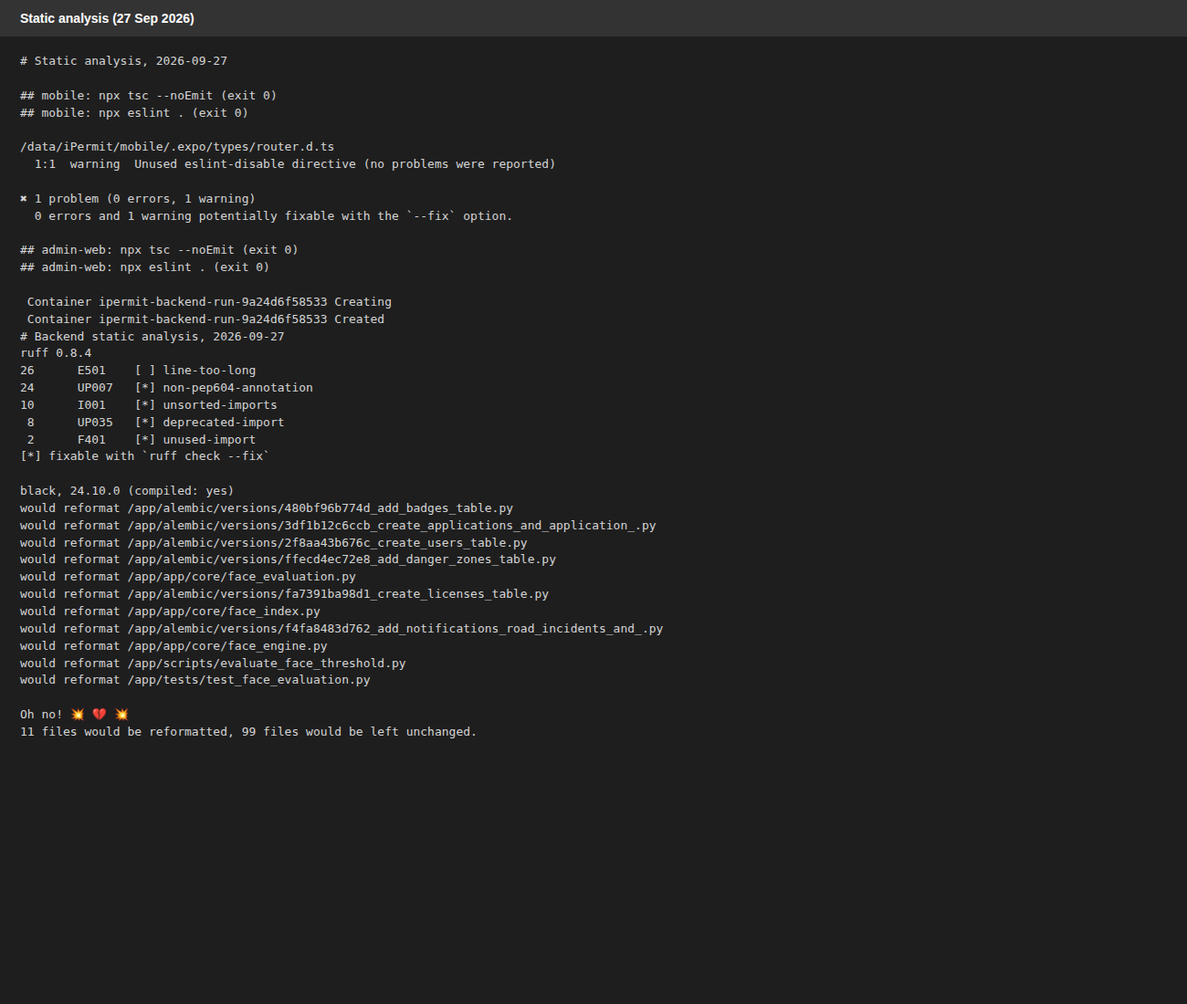
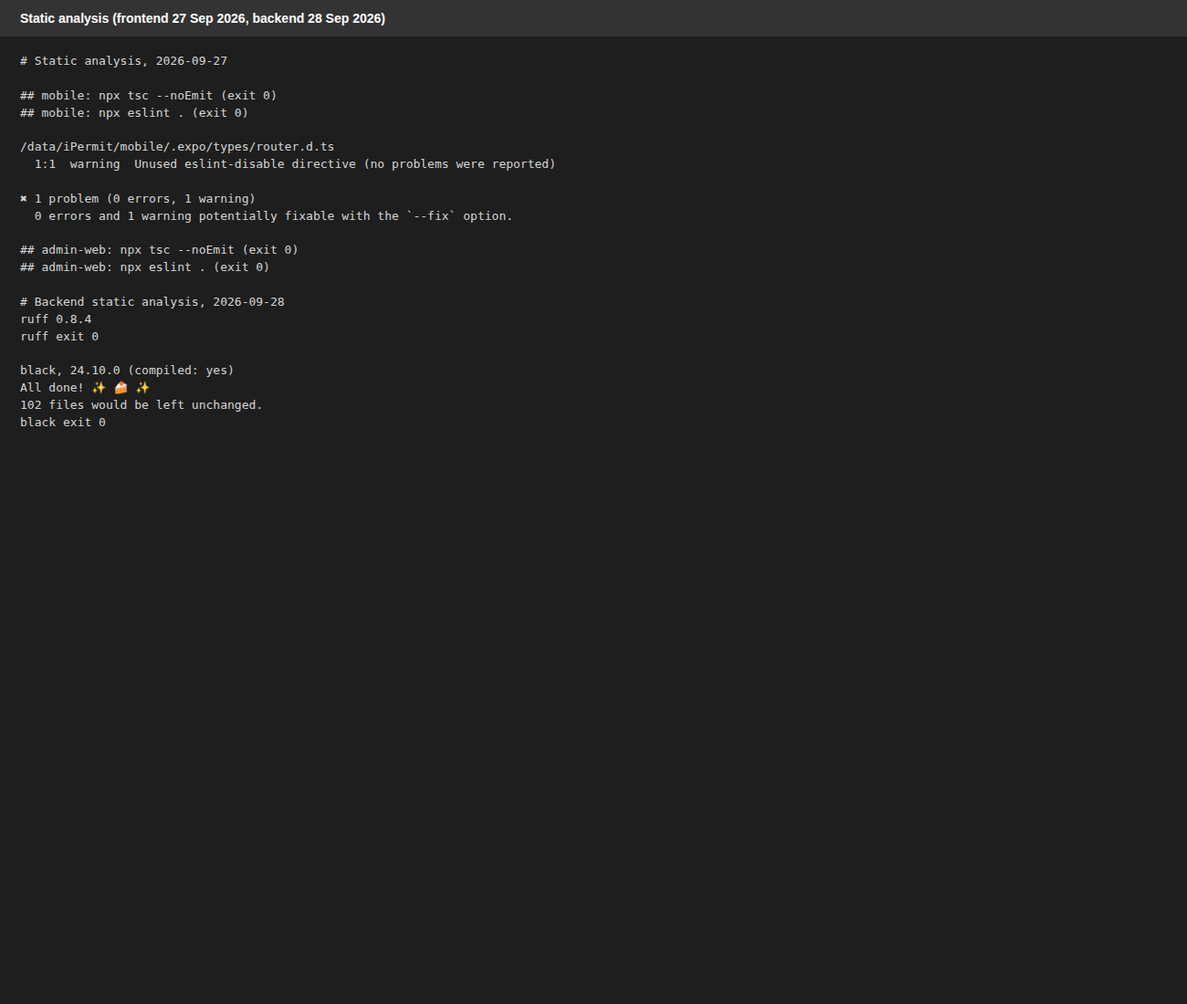
Fix backend lint findings and correct docs that disagreed with the code
Exclude autogenerated Alembic migrations from ruff and black (applied
migrations are never hand-edited) and fix the 10 remaining findings in
app code, scripts and tests. Ruff and black now pass; 165/165 tests pass.

Correct design.md, methodology.md, setup.md and mobile/README.md on the
HTTP client (fetch), route list, DB driver (psycopg2), map tiles,
liveness (not implemented), admin rendering, the exact FAISS index and
the in-memory SQLite test database. Update thesis Chapters 5-7, the test
evidence and tasks.md 9.4 to match.

diff --git a/backend/scripts/evaluate_face_threshold.py b/backend/scripts/evaluate_face_threshold.py
@@ -35,10 +35,14 @@ def main() -> None:
     args = parser.parse_args()
 
     image_paths = sorted(
-        p for p in args.dataset_dir.iterdir() if p.suffix.lower() in {".jpg", ".jpeg", ".png"}
+        p
+        for p in args.dataset_dir.iterdir()
+        if p.suffix.lower() in {".jpg", ".jpeg", ".png"}
     )
     if len(image_paths) < 2:
-        raise SystemExit(f"Need at least 2 images in {args.dataset_dir}, found {len(image_paths)}")
+        raise SystemExit(
+            f"Need at least 2 images in {args.dataset_dir}, found {len(image_paths)}"
+        )
 
     embeddings = {}
     for path in image_paths:
@@ -62,7 +66,9 @@ def main() -> None:
         f"{len(impostor_scores)} impostor pairs"
     )
 
-    current = compute_far_frr(genuine_scores, impostor_scores, settings.face_match_threshold)
+    current = compute_far_frr(
+        genuine_scores, impostor_scores, settings.face_match_threshold
+    )
     print(f"\nAt current threshold ({settings.face_match_threshold}):")
     print(f"  FAR: {current.far:.2%}   FRR: {current.frr:.2%}")
 

diff --git a/backend/app/core/face_index.py b/backend/app/core/face_index.py
@@ -75,9 +75,7 @@ def search(embedding: np.ndarray, k: int = 1) -> list[tuple[float, int]]:
         index = _get_index()
         if index.ntotal == 0:
             return []
-        similarities, ids = index.search(
-            embedding.astype(np.float32).reshape(1, -1), k
-        )
+        similarities, ids = index.search(embedding.astype(np.float32).reshape(1, -1), k)
     return [
         (float(sim), int(rowid))
         for sim, rowid in zip(similarities[0], ids[0], strict=True)

diff --git a/backend/app/core/face_engine.py b/backend/app/core/face_engine.py
@@ -112,9 +112,7 @@ def _get_face_app():
                 _ensure_models_downloaded()
                 from insightface.app import FaceAnalysis
 
-                app = FaceAnalysis(
-                    name="buffalo_l", providers=["CPUExecutionProvider"]
-                )
+                app = FaceAnalysis(name="buffalo_l", providers=["CPUExecutionProvider"])
                 app.prepare(ctx_id=0, det_size=(640, 640))
                 _face_app = app
     return _face_app

diff --git a/backend/app/core/face_preprocessing.py b/backend/app/core/face_preprocessing.py
@@ -82,7 +82,8 @@ def assess_photo_quality(
 
     if sharpness < settings.face_min_sharpness:
         reasons.append(
-            f"image too blurry (sharpness {sharpness:.1f} < {settings.face_min_sharpness})"
+            f"image too blurry (sharpness {sharpness:.1f} "
+            f"< {settings.face_min_sharpness})"
         )
     if not (settings.face_min_brightness <= brightness <= settings.face_max_brightness):
         reasons.append(

diff --git a/backend/app/core/face_evaluation.py b/backend/app/core/face_evaluation.py
@@ -34,7 +34,8 @@ def sweep_thresholds(
     genuine_scores: list[float], impostor_scores: list[float], steps: int = 100
 ) -> list[ThresholdMetrics]:
     return [
-        compute_far_frr(genuine_scores, impostor_scores, i / steps) for i in range(steps + 1)
+        compute_far_frr(genuine_scores, impostor_scores, i / steps)
+        for i in range(steps + 1)
     ]
 
 

diff --git a/backend/tests/test_face_evaluation.py b/backend/tests/test_face_evaluation.py
@@ -1,6 +1,10 @@
 import pytest
 
-from app.core.face_evaluation import compute_far_frr, find_equal_error_rate, sweep_thresholds
+from app.core.face_evaluation import (
+    compute_far_frr,
+    find_equal_error_rate,
+    sweep_thresholds,
+)
 
 
 def test_compute_far_frr_perfect_separation():

diff --git a/backend/tests/test_danger_zones.py b/backend/tests/test_danger_zones.py
@@ -1,8 +1,3 @@
-import uuid
-
-from app.models.danger_zone import DangerZone
-
-
 def _register_and_login(client, email="driver@example.com", nic="991234567V"):
     client.post(
         "/auth/register",

diff --git a/docs/methodology.md b/docs/methodology.md
@@ -20,8 +20,8 @@ Where a requirement had a genuine design ambiguity or a trade-off that materiall
 |---|---|---|
 | Backend API | FastAPI (Python), SQLAlchemy, Alembic, PostgreSQL | Async-capable, typed request/response models, mature migration tooling for a relational schema with foreign-key integrity constraints (e.g. `ON DELETE RESTRICT` on violation/fine/appeal records) |
 | Driver & police mobile app | Expo, React Native, TypeScript | Single codebase across iOS/Android/web preview; Expo's managed workflow removed the need for native build tooling during development |
-| Admin web dashboard | Next.js, React, TypeScript | Server-rendered admin UI, shared TypeScript conventions with the mobile app |
-| Facial recognition | RetinaFace + ArcFace (ONNX Runtime), FAISS, SQLite | RetinaFace/ArcFace via the `buffalo_l` model pack gave a pretrained detection-plus-embedding pipeline without requiring a from-scratch training dataset; FAISS gives sub-linear nearest-neighbour search over embeddings; SQLite isolates biometric templates from the primary PostgreSQL store, both for the non-functional privacy requirement and to avoid running two ORMs against one schema for a single table |
+| Admin web dashboard | Next.js, React, TypeScript | App Router project structure with client-rendered pages (every page calls the API from the browser), shared TypeScript conventions with the mobile app |
+| Facial recognition | RetinaFace + ArcFace (ONNX Runtime), FAISS, SQLite | RetinaFace/ArcFace via the `buffalo_l` model pack gave a pretrained detection-plus-embedding pipeline without requiring a from-scratch training dataset; FAISS gives fast exact nearest-neighbour search over embeddings (`IndexFlatIP`, a linear scan that is ample at prototype scale and can be swapped for an approximate index later); SQLite isolates biometric templates from the primary PostgreSQL store, both for the non-functional privacy requirement and to avoid running two ORMs against one schema for a single table |
 | Violation detection (planned) | YOLOv8n-seg, YOLOv8n, OpenCV | Selected for the design but not implemented in this build — see §7 |
 
 Every third-party dependency introduced during implementation was justified against an existing requirement rather than added speculatively; no dependency was added purely to make a future, unspecified feature easier to build later.
@@ -80,7 +80,7 @@ One acceptance criterion, REQ-13 AC5 ("notify nearby drivers of new high-severit
 
 ## 5. Testing Strategy
 
-Three layers of testing were applied across every module: unit tests for pure business-rule functions with no I/O (point deduction, badge-tier thresholds, appeal-reversal logic, face-recognition quality assessment, and the FAR/FRR/EER evaluation formulas), integration tests exercising each phase's endpoints against a real test database, and a final round of live verification against the actual running Docker stack for every phase, since a passing automated suite was treated throughout this project as necessary evidence, not sufficient evidence, of a working feature. Where a defect was found only through live verification and not through the existing automated tests, a new regression test was added alongside the fix rather than relying on manual verification alone to catch a recurrence.
+Three layers of testing were applied across every module: unit tests for pure business-rule functions with no I/O (point deduction, badge-tier thresholds, appeal-reversal logic, face-recognition quality assessment, and the FAR/FRR/EER evaluation formulas), integration tests exercising each phase's endpoints through FastAPI's test client against an in-memory SQLite test database (created fresh for each test, not the PostgreSQL used in the running system), and a final round of live verification against the actual running Docker stack for every phase, since a passing automated suite was treated throughout this project as necessary evidence, not sufficient evidence, of a working feature. Where a defect was found only through live verification and not through the existing automated tests, a new regression test was added alongside the fix rather than relying on manual verification alone to catch a recurrence.
 
 For the two AI subsystems, an additional evaluation layer was added specifically to avoid repeating a known methodological error from the source research: a prior attempt at face recognition reported 100% training accuracy but only 60% test accuracy on a six-person, sixty-eight-image dataset, a textbook overfitting result. A FAR/FRR/EER evaluation harness (pure functions for computing false-acceptance and false-rejection rates across a threshold sweep, plus a command-line tool for running it against a directory of labelled photographs) was first built and unit-tested against synthetic score distributions. Because no project-specific dataset of Sri Lankan drivers exists, the face pipeline was then evaluated on two public, identity-labelled datasets — LFW (96 identities, mostly Western public figures) and a Bollywood celebrity collection (100 South Asian identities) — using the backend's exact preprocessing, detection and embedding steps, the same cap of 15 images per identity for both datasets, and identity-level bootstrap confidence intervals ([evaluation/face_evaluation.ipynb](evaluation/face_evaluation.ipynb)). The evaluation deliberately reports FAR, FRR, EER and TAR at fixed FAR rather than accuracy, which is uninformative when impostor pairs outnumber genuine pairs roughly a hundred to one. At the deployed 0.42 threshold, false acceptance was effectively zero on both datasets (every observed false accept was traced to a mislabelled dataset photograph), while false rejection was 2.9% on LFW and 9.9% on the South Asian set. Two checks were applied before accepting these figures: a sensitivity analysis excluding likely mislabelled images, which left the false-rejection gap intact, and a re-computation of the embeddings in the backend's own container, which reproduced them exactly. An ablation of the CLAHE step on LFW showed it more than doubled the false-rejection rate (2.95% versus 1.37%) with no benefit to false acceptance. Full results are in [evaluation/results/](evaluation/results/results_tables.md).
 

diff --git a/docs/design.md b/docs/design.md
@@ -2,7 +2,14 @@
 
 ## Overview
 
-**Status: greenfield build — nothing described below exists yet.** iPermit will be a
+**Status: written before the build as the target design; the system is now built.**
+Where this document and the code disagree, the code is the reference (the thesis
+chapters in `docs/thesis/` describe the system as built). The main differences: face
+recognition runs in-process inside the FastAPI backend with an exact FAISS index, and
+automated violation detection was deferred, so officers record violations manually
+(see `docs/tasks.md` 5.4).
+
+iPermit will be a
 mobile-first system (Expo/React Native for drivers and police) backed by a FastAPI
 service and PostgreSQL database, with a Next.js admin web dashboard. Face recognition
 will run as an internal AI module (RetinaFace + ArcFace via ONNX Runtime, matched with
@@ -20,7 +27,7 @@ database only through the FastAPI backend — no direct DB access from mobile or
 |----|------|------|-----------------|----------|
 | COMP-1 | Mobile App | Client (Expo/React Native, TS) | Driver + police UI: auth, license, fines, face capture, incidents | COMP-3 |
 | COMP-2 | Admin Web Dashboard | Client (Next.js, TS) | Admin UI: application review, appeals, analytics | COMP-3 |
-| COMP-3 | API Backend | Service (FastAPI, Python) | Auth, applications, admin, police, road-incidents, uploads routes; orchestrates AI modules and DB | COMP-4, COMP-5, COMP-6 |
+| COMP-3 | API Backend | Service (FastAPI, Python) | Auth, applications, admin, licences, face, police, fines, appeals, badges, notifications, road-incidents and danger-zones routes; orchestrates AI modules and DB | COMP-4, COMP-5, COMP-6 |
 | COMP-4 | Face Recognition Module | AI service (Python) | Enrollment, embedding extraction, FAISS matching | COMP-3, COMP-7 |
 | COMP-5 | Violation Detection Module | AI service (Python) | Lane/vehicle detection, violation flagging | COMP-3 |
 | COMP-6 | Primary Database | Data (PostgreSQL + Alembic) | Users, licenses, applications, violations, fines, appeals, incidents | COMP-3 |
@@ -34,17 +41,21 @@ database only through the FastAPI backend — no direct DB access from mobile or
 │  Mobile App     │     │  Admin Web Dashboard │
 │ (Expo/RN, TS)   │     │  (Next.js, TS)       │
 └────────┬────────┘     └──────────┬───────────┘
-         │        REST (Axios, JWT)│
+         │        REST (fetch, JWT)│
          └───────────┬─────────────┘
                       ▼
              ┌─────────────────┐
              │   API Backend    │
              │   (FastAPI)      │
-             │  /auth /users    │
+             │  /auth /admin    │
              │  /applications   │
-             │  /admin /police  │
+             │  /licenses /face │
+             │  /police /fines  │
+             │  /appeals        │
+             │  /badges         │
+             │  /notifications  │
              │  /road-incidents │
-             │  /uploads        │
+             │  /danger-zones   │
              └───┬──────────┬───┘
                  │          │
      ┌───────────▼─┐      ┌─▼─────────────────┐
@@ -125,7 +136,7 @@ database only through the FastAPI backend — no direct DB access from mobile or
 | API Backend | Face Recognition Module | In-process / internal call | NumPy arrays, JSON | Enrollment + matching |
 | API Backend | Violation Detection Module | In-process / internal call | Image bytes, JSON | Violation detection |
 | Face Recognition Module | SQLite + FAISS | Local file/DB | Embedding vectors | Template persistence + search |
-| API Backend | PostgreSQL | SQLAlchemy/asyncpg | SQL | Core data persistence |
+| API Backend | PostgreSQL | SQLAlchemy/psycopg2 | SQL | Core data persistence |
 
 ### External
 
@@ -133,7 +144,7 @@ database only through the FastAPI backend — no direct DB access from mobile or
 |--------|------|---------|-------|
 | Expo Push Service | Push notification API | Mobile push delivery | Requires Expo push tokens per device |
 | Mock Payment Provider | Simulated | Fine payment demo | **Not a real gateway** — explicitly mock in this version |
-| Map Tiles (react-native-maps) | Map rendering | Road incident display | Uses device's native map provider |
+| Map Tiles (react-native-maps) | Map rendering | Road incident and danger-zone display | OpenStreetMap tiles on Android (Google's base map needs an API key and a custom build); Apple Maps on iOS |
 
 ## Components and Interfaces
 
@@ -142,8 +153,10 @@ database only through the FastAPI backend — no direct DB access from mobile or
 **Responsibility:** Single entry point for all clients; owns business rules for
 applications, points, fines, appeals, badges; orchestrates AI modules.
 
-**Routes:** `/auth`, `/users`, `/applications`, `/admin`, `/police`, `/road-incidents`,
-`/uploads`.
+**Routes:** `/auth`, `/applications`, `/admin`, `/licenses`, `/face`, `/police`,
+`/fines`, `/appeals`, `/badges`, `/notifications`, `/road-incidents`, `/danger-zones`,
+plus `/health` and `/ready`. There is no `/users` router, and uploaded files are not
+served over HTTP.
 
 **Key interfaces:**
 ```python
@@ -176,8 +189,9 @@ CLAHE more than doubles FRR (2.95% vs 1.37%) with no FAR/EER benefit, likely bec
 ArcFace was trained on unprocessed photos. Disabling it would require re-embedding
 already-enrolled templates.
 **Data:** face templates in SQLite; FAISS index rebuildable from SQLite at any time.
-**Known limitation:** liveness/anti-spoofing is optional and must be explicitly
-enabled — flag this in any officer-facing UI when disabled.
+**Known limitation:** liveness/anti-spoofing is not implemented. `liveness_check_enabled`
+(default `False`) is only a flag that `/face/status` reports, so the gap is disclosed to
+clients; no liveness code exists behind it.
 
 ### Violation Detection Module
 

diff --git a/docs/thesis/chapter-6-testing-and-evaluation.md b/docs/thesis/chapter-6-testing-and-evaluation.md
@@ -152,15 +152,15 @@ TC-41|FR-15|Clear a danger zone|Zone cleared by its creator and by another user;
 ```text
 6.4.1 Automated Test Results
 
-The backend test suite was run in the backend Docker image on the development machine (Intel Core i5-1145G7, 14 GB RAM, Ubuntu 26.04). TABLE 6.4 summarises the result by test file. All 165 test cases passed in 249.9 seconds. The readiness check (test_auth.py) requires the PostgreSQL container to be running: in an earlier run without the database it correctly reported the service as not ready and that single test failed, so the final run was made with the database started. The slowest tests, at four to eight seconds each, are those that run real face inference on the CPU.
+The backend test suite was run in the backend Docker image on the development machine (Intel Core i5-1145G7, 14 GB RAM, Ubuntu 26.04). TABLE 6.4 summarises the result by test file. All 165 test cases passed in 242.2 seconds. The readiness check (test_auth.py) requires the PostgreSQL container to be running: in an earlier run without the database it correctly reported the service as not ready and that single test failed, so the final run was made with the database started. The slowest tests, at four to eight seconds each, are those that run real face inference on the CPU.
 
-Static analysis of the two TypeScript applications passed: the TypeScript compiler reported no errors and ESLint reported no problems in either the mobile application or the administrator dashboard. The Python backend did not fully pass its style checks. Ruff 0.8.4 reported 70 findings, of which 26 were over-long lines and 44 were automatically fixable style issues (older type-annotation syntax, import order and two unused imports), and Black reported that 11 files would be reformatted. Sixty of the 70 Ruff findings are in auto-generated database migration files and one is in application code. None of them is a correctness error, but they should be fixed with the tools' automatic fix options before the final submission.
+Static analysis of the two TypeScript applications passed: the TypeScript compiler reported no errors and ESLint reported no problems in either the mobile application or the administrator dashboard. The first run of the Python style checks did not pass. Ruff 0.8.4 reported 70 findings, of which 26 were over-long lines and 44 were automatically fixable style issues (older type-annotation syntax, import order and two unused imports), and Black 24.10.0 reported that 11 files would be reformatted. Sixty of the Ruff findings were in database migration files generated by Alembic. Because a migration that has already been applied should not be edited, these files were excluded from both checks, which is the usual treatment for generated code. The remaining findings in application code, scripts and tests were corrected using the tools' automatic fixes and one manual line split. On the final run Ruff reported no findings, Black left all 102 files unchanged, and the full test suite still passed. None of the findings had been a correctness error.
 ```
 
 **Paste this — TABLE 6.4:**
 
 ```text
-TABLE 6.4. Backend Automated Test Results (Run on 27 September 2026)
+TABLE 6.4. Backend Automated Test Results (Run on 28 September 2026)
 Test file|Requirements|What it tests|Test cases|Passed|Failed
 test_auth.py|FR-01, NFR-S1, NFR-S2|Registration, login, token checks, health and readiness|8|8|0
 test_applications.py|FR-02|Application submission, validation, quality gate, ownership|14|14|0
@@ -365,7 +365,7 @@ Files for the appendix are in `docs/thesis/evidence/`:
 
 - `pytest-backend.txt`: full verbose output of the final test run (165 passed).
 - `static-analysis-frontend.txt`: `tsc --noEmit` and `eslint .` for the mobile app and admin web (no errors).
-- `static-analysis-backend.txt`: Ruff statistics and Black check for the backend (70 Ruff findings, 11 files to reformat).
+- `static-analysis-backend.txt`: Ruff statistics and Black check for the backend after the fixes (no findings, no files to reformat).
 - `pytest-summary.png` and `static-analysis.png`: screenshots of the above for the appendix.
 - Face evaluation: `docs/evaluation/results/` (tables, DET curve, score distributions, per-person error tables).
 

diff --git a/docs/thesis/chapter-7-conclusion-and-recommendations.md b/docs/thesis/chapter-7-conclusion-and-recommendations.md
@@ -91,7 +91,7 @@ The prototype also has to be placed in the context of recent developments. Since
 ```text
 The strongest part of the project is the reliability of its core enforcement workflow. Every change that affects several records in the main database happens in one transaction, every error the system is designed to reject is tested, and the face module fails safely by asking the officer to decide. The evaluation of face verification was also more rigorous than the project's earlier work, which had reported 100% accuracy on six people: it used about two million impostor comparisons, confidence intervals, and a check that the evaluation reproduced the deployed pipeline exactly.
 
-The weaknesses are equally clear. The system has not been used by any real driver, officer or licensing officer, so its usability and its effect on the time taken at a roadside stop are unknown. The face pipeline has not been tested on the population it is meant to serve, and its default photo-sharpness limit rejected a clear selfie from a real phone, so real drivers would currently struggle to enrol. The prototype runs only on a development machine, has no consent step before biometric enrolment, and its backend code does not yet pass all of its own style checks. Finally, one of the proposal's two AI components was not built. These weaknesses do not invalidate the prototype, but they mean it demonstrates feasibility rather than readiness for deployment.
+The weaknesses are equally clear. The system has not been used by any real driver, officer or licensing officer, so its usability and its effect on the time taken at a roadside stop are unknown. The face pipeline has not been tested on the population it is meant to serve, and its default photo-sharpness limit rejected a clear selfie from a real phone, so real drivers would currently struggle to enrol. The prototype runs only on a development machine and has no consent step before biometric enrolment. Finally, one of the proposal's two AI components was not built. These weaknesses do not invalidate the prototype, but they mean it demonstrates feasibility rather than readiness for deployment.
 ```
 
 ---
@@ -111,7 +111,7 @@ Decide scope conflicts explicitly. When the violation detector could not be trai
 
 Keep a human in the loop for enforcement decisions. Designing the face search to return ranked candidates, rather than one answer, made the system usable even with the error rates measured in Chapter 6.
 
-Automate quality checks. Style checks that were clean earlier in the project had drifted by the end, because they were run by hand. Running tests and linters automatically on every change would have caught this at once.
+Automate quality checks. Style checks that were clean earlier in the project had drifted by the end, because they were run by hand, and had to be corrected just before submission. Running tests and linters automatically on every change would have caught this at once.
 ```
 
 ---
@@ -186,5 +186,3 @@ iPermit shows that a digital driving licence, biometric roadside verification, p
 3. **Counts to re-check if the code changes:** "thirteen were
    implemented" (FR-01–06, 08–13 and 15, with the exceptions for FR-12 and
    FR-13 stated in the text), and "165 automated tests".
-4. **If you fix the Ruff/Black findings** (Chapter 6), delete the sentence
-   "its backend code does not yet pass all of its own style checks" in 7.4.

diff --git a/docs/thesis/chapter-5-system-development.md b/docs/thesis/chapter-5-system-development.md
@@ -885,35 +885,18 @@ on the page. [2] and [3] are [1] and [2] in Chapter 3; renumber when you merge.
    the 5.5 introduction says "The complete source code is included in the
    appendix". Change that sentence if the appendix will hold only selected
    files or a link to the repository.
-8. **Parts of the docs disagree with the code**, and this chapter follows the
-   code. You may want to fix the docs, and make sure the paper and other
-   chapters don't repeat them:
-   - `docs/design.md` and `mobile/README.md` say the clients use Axios. They
-     use `fetch` (with `XMLHttpRequest` for multipart uploads on the phone).
-   - `docs/design.md` lists `/users` and `/uploads` routes. Neither exists;
-     there are 12 routers (TABLE 5.3), and no endpoint serves uploaded files,
-     so the admin dashboard shows only the photo count, not the photos.
-   - `docs/design.md` says the backend uses asyncpg. It uses psycopg2 with
-     synchronous SQLAlchemy sessions.
-   - `docs/design.md` says map tiles come from the device's native provider.
-     Android uses OpenStreetMap tiles (iOS would use Apple Maps).
-   - `docs/design.md` describes liveness as "optional and must be explicitly
-     enabled". There is no liveness code at all; `liveness_check_enabled` is
-     only a flag reported by `/face/status`.
-   - `docs/methodology.md` calls the admin UI "server-rendered". Every page is
-     a client component.
-   - `docs/methodology.md` says FAISS gives "sub-linear" search. `IndexFlatIP`
-     is an exact linear search (same issue as in the paper, see Chapter 3
-     note 5).
-   - `docs/methodology.md` says integration tests run "against a real test
-     database". `tests/conftest.py` uses an in-memory SQLite database, not
-     PostgreSQL. Say this correctly in Chapter 6.
-   - `docs/setup.md` section 6 says the native map "has not been visually
-     confirmed". It was later run on the Android phone (commit `774f150`).
-   - `docs/diagrams/system-architecture-detailed.png` draws the admin web and
-     the mobile app inside the FastAPI "application container". They are
-     separate applications that run outside Docker (Fig. 5.6). Don't reuse
-     that figure in the thesis without fixing it.
+8. **Docs that disagreed with the code have been corrected** (2026-09-28):
+   `docs/design.md`, `docs/methodology.md`, `docs/setup.md` and
+   `mobile/README.md` now match the code on the HTTP client (`fetch`), the
+   route list, the database driver (psycopg2), map tiles, liveness (not
+   implemented), admin page rendering (client components), the FAISS index
+   (exact `IndexFlatIP`) and the test database (in-memory SQLite). Make sure
+   the paper doesn't repeat the old statements (see Chapter 3 note 5 for
+   "sub-linear"). One issue remains:
+   `docs/diagrams/system-architecture-detailed.png` draws the admin web and
+   the mobile app inside the FastAPI "application container". They are
+   separate applications that run outside Docker (Fig. 5.6). Don't reuse
+   that figure in the thesis without fixing it.
 9. **A small inefficiency you may be asked about.** `face_engine.py` loads the
    whole buffalo_l pack (five models, including age/gender and landmark
    models), although only detection and recognition are used. This affects
